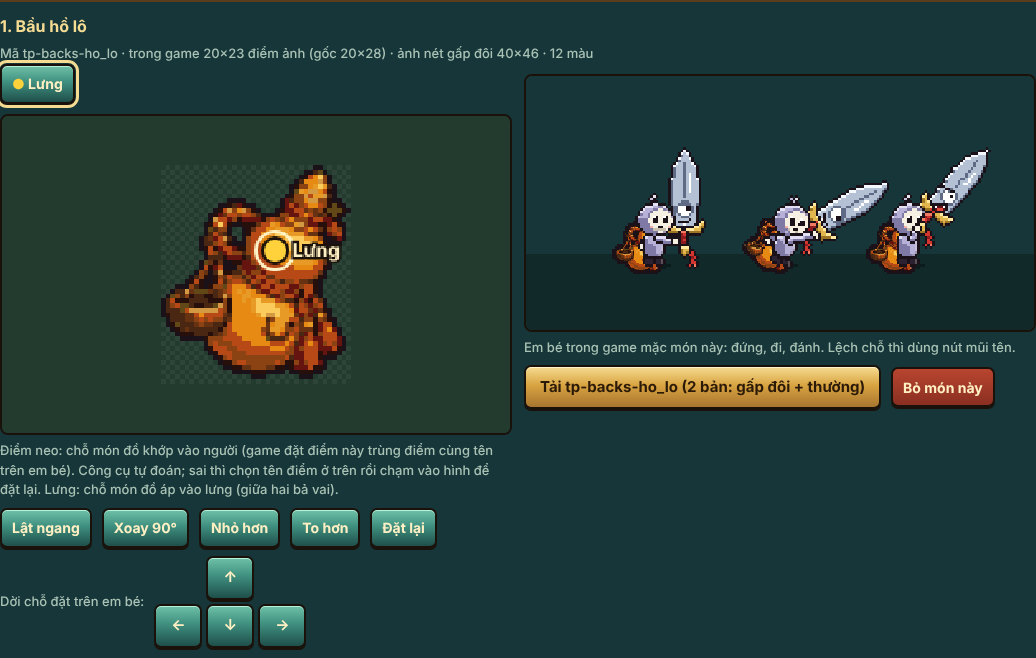
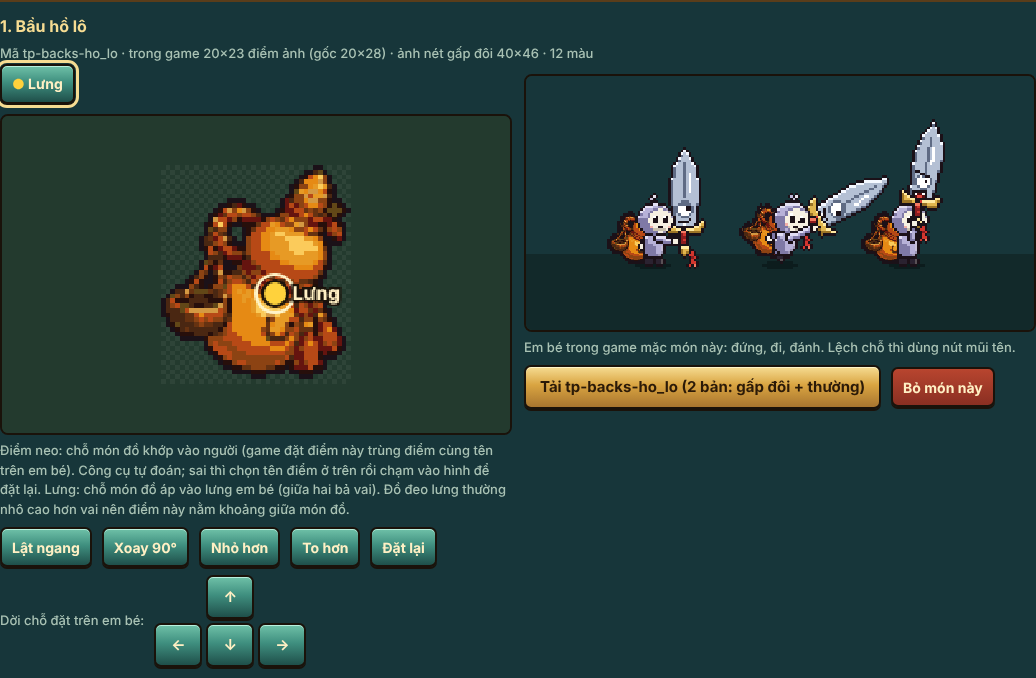
Thử ghép: ảnh sau khi game đặt đồ theo điểm neo; Tách Đồ đoán điểm lưng thấp hơn (đồ lưng lên ngang vai); cập nhật báo cáo
Claude-Session: https://claude.ai/code/session_017N7QXqfkK27mirk6Hvvt7g

diff --git a/tools/tach-do/index.html b/tools/tach-do/index.html
@@ -784,7 +784,7 @@ function datDiem(i) { // điểm tự đặt theo quy ước; điểm người d
         const yv = y0 + Math.max(1, Math.round(bh * 0.2)), [a, b] = mepHang(yv), vao = (b - a + 1) * 0.15;
         P.co = [hangTB(y0, y0 + dot), y0 + 0.5]; P.vai_sau = [a + vao, yv + 0.5]; P.vai_truoc = [b + 1 - vao, yv + 0.5]; P.hong = [hangTB(y1 - dot, y1), y1 + 1];
       }
-    } else if (o === 'backs') P.lung = [x0 + bw * 0.6, y0 + bh * 0.4];
+    } else if (o === 'backs') P.lung = [x0 + bw * 0.6, y0 + bh * 0.6];
     else if (o === 'wings') { let bx = x1, by = y1, best = -1; for (let y = y0; y <= y1; y++) for (let x = x0; x <= x1; x++) if (dac(x, y) && x + y > best) { best = x + y; bx = x; by = y; } const lui = Math.max(1, Math.round(Math.min(bw, bh) * 0.08)); P.goc_canh = [bx + 0.5 - lui, by + 0.5 - lui]; }
     else if (o === 'hands') { if (D.kieu === 'cam') { const yc = y0 + Math.round(bh * 0.78); P.tay_truoc = [hangTB(yc - 1, yc + 1), yc + 0.5]; } else P.eo = [hangTB(y0, y0 + dot), y0 + 0.5]; }
     for (const k in P) if (c.diem[k]) P[k] = [c.diem[k][0] * w, c.diem[k][1] * h];
@@ -899,7 +899,7 @@ let CHE = 'cam';
 const NEO = { dinh_dau: ['Đỉnh đầu', '#ffd23c'], gay: ['Gáy', '#6fc1d8'], mat: ['Mắt', '#ffd23c'], co: ['Cổ', '#ffd23c'], vai_sau: ['Vai sau', '#6fc1d8'], vai_truoc: ['Vai trước', '#ff5a46'],
   hong: ['Hông', '#c88cff'], eo: ['Eo', '#c88cff'], lung: ['Lưng', '#ffd23c'], goc_canh: ['Gốc cánh', '#ff5a46'], tay_truoc: ['Tay cầm', '#ff5a46'] };
 const NEO_GOI = { hats: 'Đỉnh đầu: chỗ đỉnh đầu em bé chạm vào trong mũ (giữa, phía dưới). Gáy: phía sau đầu.', masks: 'Mắt: tâm dấu, đặt vào giữa vùng mắt.',
-  robes: 'Cổ: giữa mép trên cổ áo. Hai vai: hai đầu vai. Hông: giữa mép dưới áo.', backs: 'Lưng: chỗ món đồ áp vào lưng (giữa hai bả vai).',
+  robes: 'Cổ: giữa mép trên cổ áo. Hai vai: hai đầu vai. Hông: giữa mép dưới áo.', backs: 'Lưng: chỗ món đồ áp vào lưng em bé (giữa hai bả vai). Đồ đeo lưng thường nhô cao hơn vai nên điểm này nằm khoảng giữa món đồ.',
   wings: 'Gốc cánh: chỗ cánh mọc ra từ lưng (góc dưới bên phải).', hands: 'Eo: móc treo trên cùng của bùa (treo ở thắt lưng). Tay cầm: chỗ bàn tay nắm.' };
 function chonMon(i, giu) {
   CHON = i; const K = KQ[i], m = L.ds[i], c = chinhCua(i);
